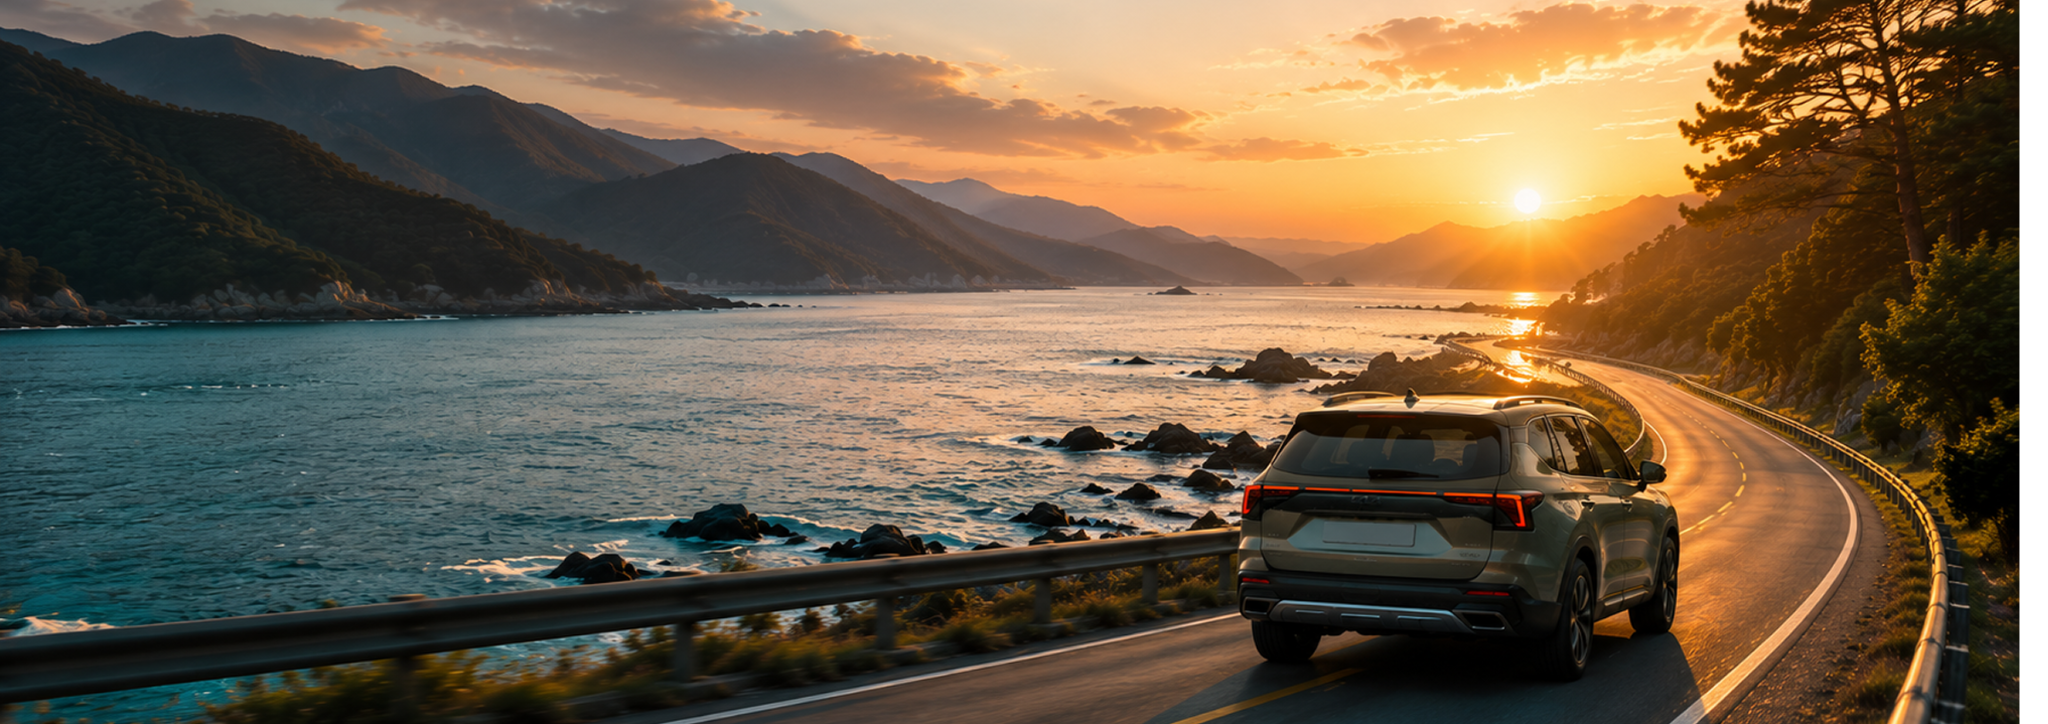
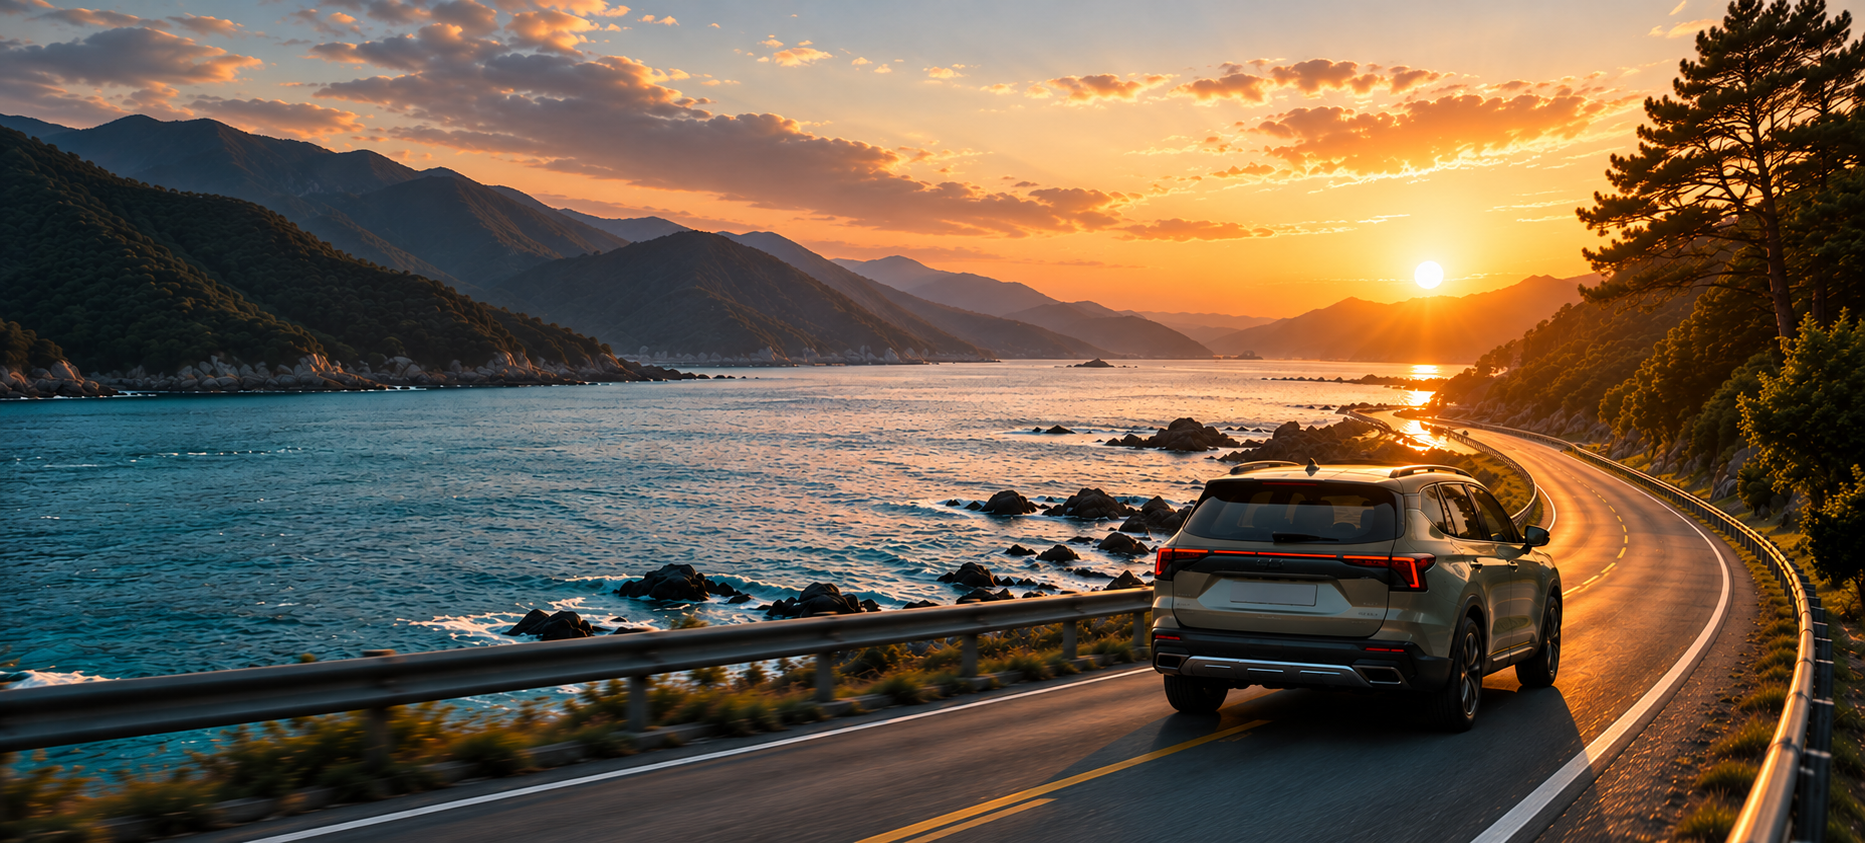
fourth commit

diff --git a/css/responsive.css b/css/responsive.css
@@ -188,16 +188,12 @@
 
     /* HERO */
     .hero-section {
-        height: 52rem;
         aspect-ratio: auto;
-        background: #111;
     }
 
     .hero-section>img {
         width: 100%;
-        height: 100%;
-        object-fit: contain;
-        object-position: center;
+        object-fit: cover;
     }
 
     .hero-copy {
@@ -208,12 +204,12 @@
     }
 
     .hero-copy h2 {
-        font-size: 3.2rem;
+        font-size: 3.5rem;
+        line-height: 130%;
     }
 
     .hero-copy>span {
-        margin-top: 1.8rem;
-        font-size: 1.8rem;
+        font-size: 1.7rem;
     }
 
     .hero-copy p {
@@ -778,3 +774,77 @@
         margin-top: 3.5rem;
     }
 }
+
+
+/* =========================
+   CTA / FOOTER IMAGE MOBILE
+========================= */
+@media screen and (max-width: 768px) {
+
+    .course-cta {
+        width: 100%;
+        height: 320px;
+        aspect-ratio: auto;
+        margin-top: 12rem;
+        position: relative;
+        overflow: hidden;
+    }
+
+    .course-cta > img {
+        width: 100%;
+        height: 100%;
+        object-fit: cover;
+        object-position: center;
+    }
+
+    .cta-copy {
+        left: 24px;
+        top: 50%;
+        transform: translateY(-50%);
+    }
+
+    .cta-copy h3 {
+        font-size: 3rem;
+        line-height: 1.25;
+    }
+
+    .cta-copy > span {
+        margin-top: 1.8rem;
+        font-size: 1.6rem;
+        line-height: 1.4;
+    }
+
+    .cta-copy .more_btn {
+        width: 19rem;
+        height: 4.8rem;
+        margin-top: 2.5rem;
+    }
+}
+
+@media screen and (max-width: 425px) {
+
+    .course-cta {
+        height: 300px;
+        margin-top: 10rem;
+    }
+
+    .cta-copy {
+        left: 24px;
+        right: 24px;
+    }
+
+    .cta-copy h3 {
+        font-size: 2.6rem;
+        line-height: 1.3;
+    }
+
+    .cta-copy > span {
+        font-size: 1.5rem;
+    }
+
+    .cta-copy .more_btn {
+        width: 19rem;
+        height: 4.6rem;
+    }
+}
+

diff --git a/css/driving.css b/css/driving.css
@@ -139,7 +139,7 @@ header.on .navy {
 .hero-section {
     position: relative;
     width: 100%;
-    aspect-ratio: 1 / 0.5;
+    aspect-ratio: 1920/ 868;
     overflow: hidden;
 }
 
@@ -147,6 +147,7 @@ header.on .navy {
     width: 100%;
     height: 100%;
     object-fit: cover;
+    display: block;
 }
 
 .hero-copy {
@@ -659,7 +660,6 @@ header.on .navy {
 
 /* =========================================================
    KIA CARE HOVER
-   - 작은 설명은 기본에는 없음
    - hover 시 카드 중앙에 2배 크기로 등장
    - 카드/이미지 크기는 그대로
 ========================================================= */
@@ -1388,5 +1388,21 @@ body .wrap {
     .driving-spot .section-heading > a {
         top: .7rem !important;
         font-size: 1.3rem !important;
+    }
+}
+
+@media screen and (max-width: 768px) {
+    .course-cta {
+        width: 100%;
+        height: auto;
+        aspect-ratio: auto;
+        overflow: visible;
+    }
+
+    .course-cta > img {
+        width: 100%;
+        height: auto;
+        display: block;
+        object-fit: contain;
     }
 }

diff --git a/index.html b/index.html
@@ -44,6 +44,12 @@
                     </li>
                     <li>
                         <a href="#">Life Guide</a>
+                        <ul class="sub">
+                            <li><a href="#">Driving Spot</a></li>
+                            <li><a href="#">Driving Course</a></li>
+                            <li><a href="#">In-car Life</a></li>
+                            <li><a href="#">KIA Care</a></li>
+                        </ul>
                     </li>
                     <li>
                         <a href="#">Magazine</a>
